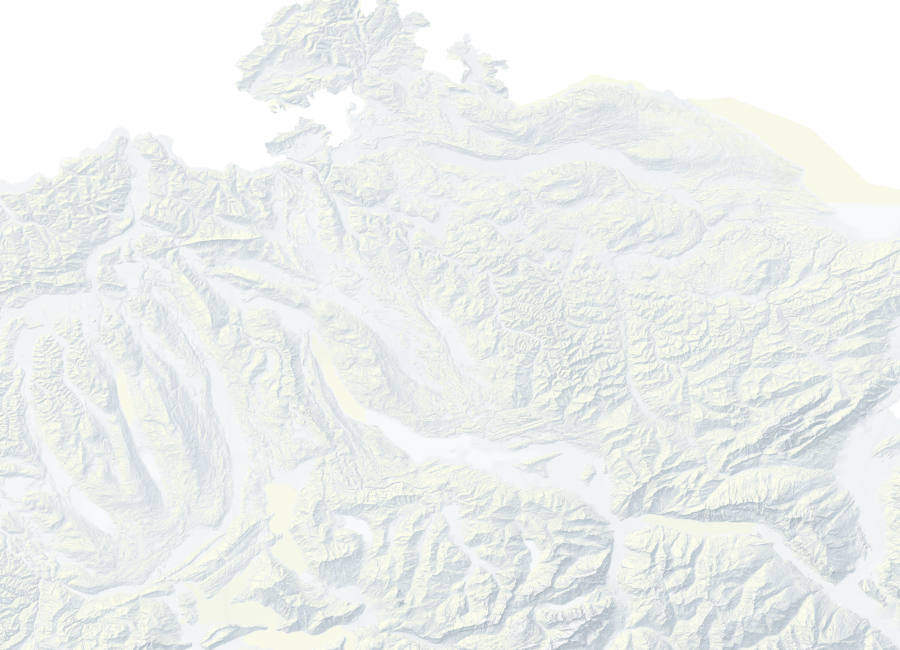
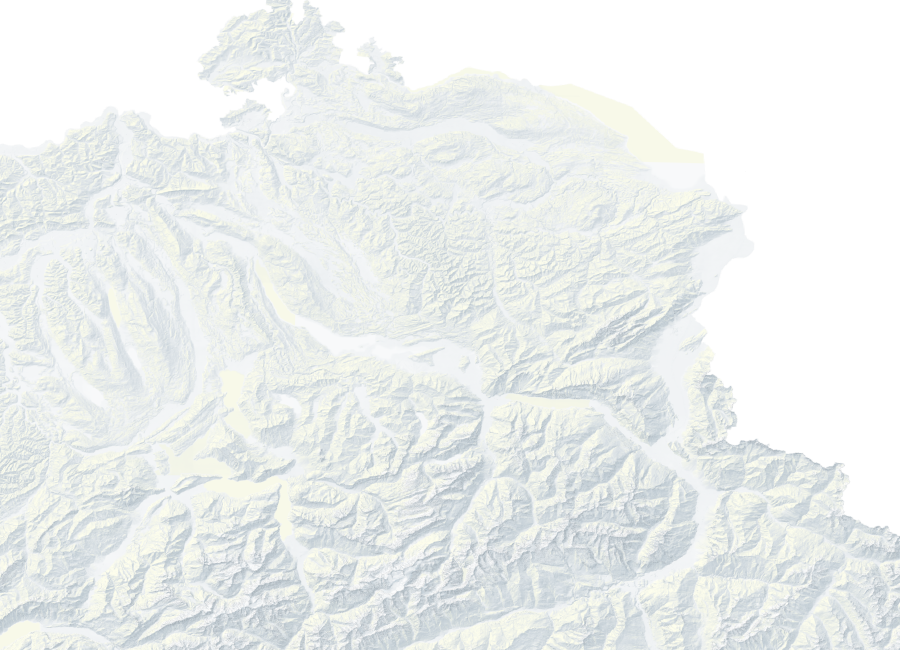
update member map

diff --git a/js/zjv-mitglieder-karte.js b/js/zjv-mitglieder-karte.js
@@ -4,8 +4,8 @@
 import { slugify } from '/js/zjv-utils.js?v=1783867364';
 
 // Bounding box — 10% relative padding on all sides of club extents
-const LAT_MIN = 46.97, LAT_MAX = 47.78;
-const LNG_MIN = 8.00,  LNG_MAX = 9.55;
+const LAT_MIN = 46.7075, LAT_MAX = 47.8000;
+const LNG_MIN = 7.9541,  LNG_MAX = 10.0063;
 const MAX_ZOOM = 20;
 
 function project(lng, lat) {

diff --git a/.github/skills/mitglieder-map/SKILL.md b/.github/skills/mitglieder-map/SKILL.md
@@ -13,10 +13,10 @@ Derived from actual club `lat`/`lng` positions in `mitglieder.json`, with **10% 
 
 | Parameter | Value |
 |-----------|-------|
-| `LAT_MIN` | 46.97 |
-| `LAT_MAX` | 47.78 |
-| `LNG_MIN` | 8.00  |
-| `LNG_MAX` | 9.55  |
+| `LAT_MIN` | 46.7075 |
+| `LAT_MAX` | 47.8000 |
+| `LNG_MIN` | 7.9541  |
+| `LNG_MAX` | 10.0063 |
 | Image width | 900 px |
 | Image height | 650 px |
 
@@ -89,7 +89,7 @@ The base map is stored as `js/zjv-mitglieder-karte/map.png` (900×650 px). Fetch
 curl -o js/zjv-mitglieder-karte/map.png \
   "https://wms.geo.admin.ch/?SERVICE=WMS&VERSION=1.3.0&REQUEST=GetMap\
 &LAYERS=ch.swisstopo.leichte-basiskarte_reliefschattierung\
-&CRS=EPSG:4326&BBOX=46.97,8.00,47.78,9.55\
+&CRS=EPSG:4326&BBOX=46.7075,7.9541,47.8000,10.0063\
 &WIDTH=900&HEIGHT=650&FORMAT=image/png&STYLES="
 ```
 
@@ -111,7 +111,7 @@ Uses the geo.admin.ch REST MapServer `find` endpoint. Returns ESRI JSON with `ri
 Affoltern, Andelfingen, Bülach, Dielsdorf, Dietikon, Hinwil, Horgen, Meilen, Pfäffikon, Uster, Winterthur, Zürich
 
 **Outer cantons** (layer: `ch.swisstopo.swissboundaries3d-kanton-flaeche.fill`):
-Glarus, Schaffhausen, Schwyz, St. Gallen
+Glarus, Graubünden, Luzern, Schaffhausen, Schwyz, St. Gallen
 
 ```python
 import urllib.request, json, urllib.parse
@@ -135,20 +135,20 @@ def esri_to_geojson(rings):
     return {"type": "MultiPolygon", "coordinates": [[r] for r in rings]}
 ```
 
-Output files: `zjv/mitglieder/bezirk-{slug}.geojson`, `kanton-{slug}.geojson`.
+Output files: none — GeoJSON is fetched in-memory and projected directly into `boundaries.svg`.
 Umlaut slugs: ü→ue, ö→oe, ä→ae (e.g. `bezirk-buelach`, `bezirk-zuerich`, `bezirk-pfaeffikon`).
 
 ---
 
 ## 4. Generating SVG Overlays
 
-Each GeoJSON → standalone SVG with `viewBox="0 0 900 650"`, aligned to the WMS image.
+All regions are combined into a single `js/zjv-mitglieder-karte/boundaries.svg` with `viewBox="0 0 900 650"`, aligned to the WMS image. Each region becomes one `<path id="{slug}">` element.
 
 **Projection** (linear, y-axis flipped for SVG):
 ```python
 # Bounding box — 10% relative padding on all sides of club extents
-LAT_MIN, LAT_MAX = 46.97, 47.78
-LNG_MIN, LNG_MAX = 8.00, 9.55
+LAT_MIN, LAT_MAX = 46.7075, 47.8000
+LNG_MIN, LNG_MAX = 7.9541, 10.0063
 W, H = 900, 650
 
 def project(lng, lat):
@@ -175,16 +175,16 @@ def simplify(pts, epsilon=1.5):
     return [pts[0], pts[-1]]
 ```
 
-SVG template per feature:
+SVG structure:
 ```xml
-<svg xmlns="http://www.w3.org/2000/svg" viewBox="0 0 900 650" width="900" height="650">
-  <path id="{slug}" d="{path_data}"
-        fill="rgba(0,80,160,0.15)" stroke="#0050a0"
-        stroke-width="1.5" stroke-linejoin="round"/>
+<svg xmlns="http://www.w3.org/2000/svg" viewBox="0 0 900 650">
+  <style>path { fill: rgba(0,80,160,0.10); stroke: #0050a0; stroke-width: 1; stroke-linejoin: round; }</style>
+  <path id="bezirk-affoltern" d="..."/>
+  <!-- ... one <path> per Bezirk/Kanton ... -->
 </svg>
 ```
 
-Output files: `zjv/mitglieder/bezirk-{slug}.svg`, `kanton-{slug}.svg`.
+Output file: `js/zjv-mitglieder-karte/boundaries.svg`.
 
 ---
 
@@ -194,7 +194,7 @@ Convert `lat`/`lng` from `mitglieder.json` to pixel coordinates using the same `
 
 ```javascript
 // Bounding box — 10% relative padding on all sides of club extents
-const LAT_MIN = 46.97, LAT_MAX = 47.78, LNG_MIN = 8.00, LNG_MAX = 9.55;
+const LAT_MIN = 46.7075, LAT_MAX = 47.8000, LNG_MIN = 7.9541, LNG_MAX = 10.0063;
 const W = 900, H = 650;
 
 function project(lng, lat) {
@@ -215,6 +215,4 @@ All stored in `zjv/mitglieder/`:
 |------|-------------|
 | `mitglieder.json` | Club data with `lat`/`lng` geocoded |
 | `js/zjv-mitglieder-karte/map.png` | WMS base map image (fetch with curl, not in git) |
-| `js/zjv-mitglieder-karte/boundaries.svg` | Combined Bezirk/canton SVG overlay |
-| `bezirk-{slug}.geojson` / `.svg` | Zürich Bezirk boundaries |
-| `kanton-{slug}.geojson` / `.svg` | Outer canton boundaries |
+| `js/zjv-mitglieder-karte/boundaries.svg` | All Bezirk/canton outlines in one SVG (one `<path>` per region) |